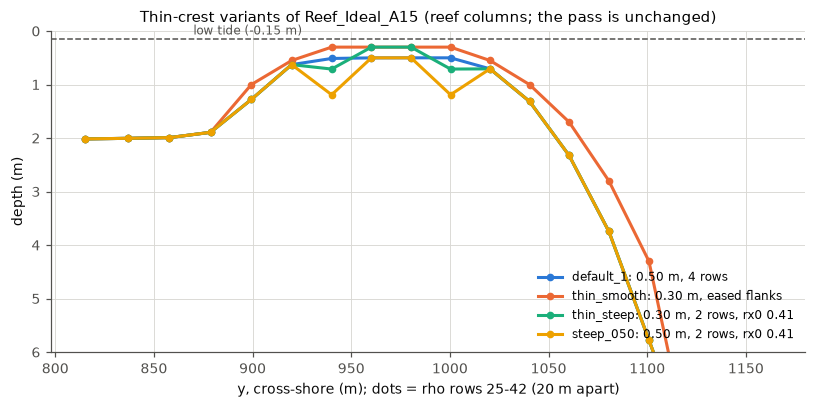
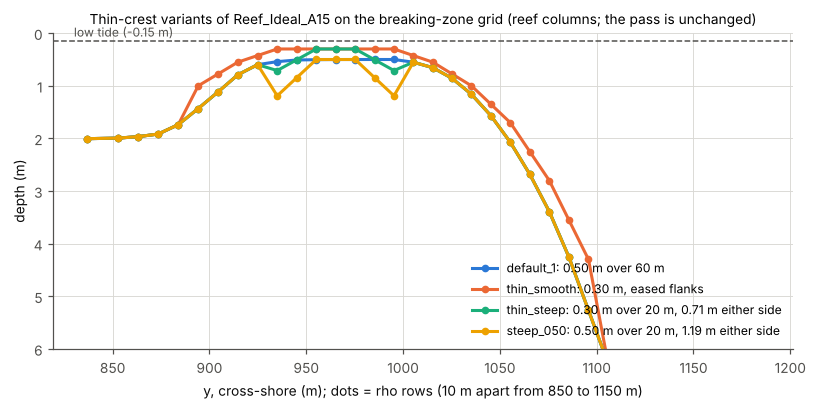
make_thin_crest.py: find the crest by depth, variants as profiles in metres
The tool assigned depths to the row numbers of the 20 m grid and chose
the reef columns on row 32, which on the breaking-zone grid is 1.1 m of
back reef. Each variant is now a depth profile against the distance from
the crest centre in metres; the reef columns are those shallower than
0.6 m, the centre is midway between the flanks' crossings of 1 m, each
profile point goes to the nearest row and the rows between are
interpolated. On the 20 m case (git history before 2026-11-03) the three
grids are bit-identical to the old tool's; on the breaking-zone grid the
same profiles are sampled every 10 m (rx0 0.26 and 0.37 per cell instead
of 0.41 for the steep variants). Doc page and the profile figure updated.

Claude-Session: https://claude.ai/code/session_011fPENoenHnmEj2RBrpTmzg

diff --git a/tools/reef/make_thin_crest.py b/tools/reef/make_thin_crest.py
@@ -3,33 +3,98 @@
     python -I make_thin_crest.py CASE_SRC CASE_DST
 
 Copies CASE_SRC to CASE_DST and adds, next to the default grid (crest 0.50 m,
-rows 31-34, flank rx0 0.34):
-  thin_smooth   crest rows 31-34 at 0.30 m, flanks (rows 29-39) eased so the
-                slope factor rx0 stays <= 0.31, as in the default grid
-  thin_steep    crest rows 32-33 at 0.30 m, rows 31 and 34 at 0.71 m (rx0 0.41:
-                a narrow 2-row crest, like a realistic reef grid that failed)
-  steep_050     crest rows 32-33 at 0.50 m, rows 31 and 34 at 1.19 m (rx0 0.41,
-                the default depth): steepness alone
-Only the reef columns (default h < 0.6 m at row 32) change; the pass is untouched.
+flat over 60 m: the 20 m grid's rows 31-34, flank rx0 0.34):
+  thin_smooth   crest at 0.30 m over the same 60 m, flanks eased over 140 m
+                either side so the slope factor rx0 stays about 0.3
+  thin_steep    0.30 m crest 20 m wide, 0.71 m 20 m either side of it (on the
+                20 m grid rx0 0.41: a narrow two-row crest, like a realistic
+                reef grid that failed)
+  steep_050     0.50 m crest 20 m wide, 1.19 m either side (rx0 0.41 on the
+                20 m grid, the default depth): steepness alone
+
+Each variant is a depth profile against the cross-shore distance from the
+crest centre, in metres (PROFILES below: the 20 m grid's rows 29-39 at their
+offsets from the centre of its crest). The crest is found by depth, not by
+row number: the reef columns are those whose shallowest wet point is less
+than 0.6 m deep (the pass is deeper and stays untouched); the crest centre is
+the midpoint between the two places where the median depth over the reef
+columns crosses 1 m, landward and seaward of the shallowest row. Each point
+of the profile goes to the row nearest its offset, and rows between two
+profile points take the linear interpolation in y; rows beyond the ends keep
+their depth. On the 20 m grid (203 x 111, before 2026-11-03) every profile
+point has its own row and the grids are those of the 2026-11-02 tests, bit
+for bit; on the breaking-zone grid (10 m rows from 850 to 1150 m from the
+shore) the rows in between are interpolated. rx0 is a per-cell number, so
+the "steep" variants are less steep per cell on 10 m rows (rx0 0.26 and 0.37
+instead of 0.41): the profile is the same, the numerical difficulty is not.
 """
-import shutil, sys
+import shutil
+import sys
 from pathlib import Path
+
 import numpy as np
 from netCDF4 import Dataset
 
-src, dst = Path(sys.argv[1]), Path(sys.argv[2])
-if dst.exists():
-    shutil.rmtree(dst)
-shutil.copytree(src, dst)
+# cross-shore offset from the crest centre (m) -> depth (m); the 20 m grid's rows
+# 29-39 sit at offsets -70, -50, ..., 130 (row 32.5 = the centre of rows 31-34)
+PROFILES = {
+    "thin_smooth": ([-70, -50, -30, -10, 10, 30, 50, 70, 90, 110, 130],
+                    [1.0, 0.55, 0.30, 0.30, 0.30, 0.30, 0.55, 1.0, 1.7, 2.8, 4.3]),
+    "thin_steep": ([-30, -10, 10, 30], [0.71, 0.30, 0.30, 0.71]),
+    "steep_050": ([-30, -10, 10, 30], [1.19, 0.50, 0.50, 1.19]),
+}
+REEF_DEPTH = 0.6    # a column is reef (not pass) if its shallowest wet point is above this
+FLANK_DEPTH = 1.0   # the crest centre is midway between the flanks' crossings of this depth
 
-def variant(name, rowdepth):
+
+def find_crest(h, mask, y):
+    """Reef columns (bool over i), the shallowest row and the crest centre's y (m)."""
+    hw = np.where(mask == 1, h, np.inf)
+    reef = hw.min(axis=0) < REEF_DEPTH
+    if not reef.any():
+        sys.exit(f"no reef columns: no wet point shallower than {REEF_DEPTH} m")
+    med = np.median(hw[:, reef], axis=1)
+    jmin = int(np.argmin(med))
+
+    def crossing(step):
+        j = jmin
+        while 0 <= j + step < len(med) and med[j + step] < FLANK_DEPTH:
+            j += step
+        k = j + step
+        f = (FLANK_DEPTH - med[j]) / (med[k] - med[j])
+        return y[j] + f * (y[k] - y[j])
+
+    yc = 0.5 * (crossing(-1) + crossing(+1))
+    return reef, jmin, yc
+
+
+def main(src, dst):
+    if dst.exists():
+        shutil.rmtree(dst)
+    shutil.copytree(src, dst)
+    with Dataset(dst / "roms_grid_default_1.nc") as g:
+        h0 = np.ma.filled(g["h"][:], 0.0)
+        mask = np.ma.filled(g["mask_rho"][:], 0)
+        y = np.ma.filled(g["y_rho"][:, 0], 0.0)
+    reef, jmin, yc = find_crest(h0, mask, y)
+    cols = np.flatnonzero(reef)
+    i0 = cols[len(cols) // 4]
+    print(f"reef columns: {reef.sum()} of {len(reef)}; shallowest row {jmin} (y {y[jmin]:.0f} m, "
+          f"{h0[jmin, i0]:.2f} m at i={i0}); crest centre y {yc:.0f} m")
+    for name, (off, dep) in PROFILES.items():
+        variant(dst, name, h0, reef, y - yc, np.array(off, float), np.array(dep, float), i0)
+
+
+def variant(dst, name, h0, reef, dy, off, dep, i0):
+    h = h0.copy()
+    rows = np.array([int(np.argmin(np.abs(dy - o))) for o in off])
+    if len(set(rows)) < len(rows):
+        sys.exit(f"{name}: two profile points fall on the same row; the grid is coarser than the profile")
+    for j in range(rows.min(), rows.max() + 1):
+        h[j, reef] = np.interp(dy[j], dy[rows], dep)
     gf = dst / f"roms_grid_{name}.nc"
     shutil.copy(dst / "roms_grid_default_1.nc", gf)
     with Dataset(gf, "a") as g:
-        h = g["h"][:]
-        reef = h[32] < 0.6
-        for j, d in rowdepth.items():
-            h[j, reef] = d
         g["h"][:] = h
         if "hraw" in g.variables:
             g["hraw"][0] = h
@@ -38,10 +103,12 @@ def variant(name, rowdepth):
     b[w] = h[w]
     np.savetxt(dst / f"swan_bathy_{name}.bot", b, fmt="%15.8f")
     rx = np.abs(h[1:] - h[:-1]) / (h[1:] + h[:-1])
-    print(f"{name}: rows 28-40 at i=50 {np.round(h[28:41, 50], 2)}; rx0 max {rx.max():.3f} "
-          f"(rows 28-40: {rx[28:40].max():.3f})")
+    j0, j1 = rows.min() - 1, rows.max() + 2
+    print(f"{name}: rows {j0}-{j1 - 1} at i={i0} {np.round(h[j0:j1, i0], 2)}; "
+          f"rx0 max {rx.max():.3f} (those rows: {rx[j0:j1 - 1].max():.3f})")
 
-variant("thin_smooth", {29: 1.0, 30: 0.55, 31: 0.30, 32: 0.30, 33: 0.30, 34: 0.30,
-                        35: 0.55, 36: 1.0, 37: 1.7, 38: 2.8, 39: 4.3})
-variant("thin_steep", {31: 0.71, 32: 0.30, 33: 0.30, 34: 0.71})
-variant("steep_050", {31: 1.19, 32: 0.50, 33: 0.50, 34: 1.19})
+
+if __name__ == "__main__":
+    if len(sys.argv) != 3:
+        sys.exit("usage: python -I make_thin_crest.py CASE_SRC CASE_DST")
+    main(Path(sys.argv[1]), Path(sys.argv[2]))

diff --git a/figures/make_figures.py b/figures/make_figures.py
@@ -215,21 +215,23 @@ def fig_thin_crest(tmp):
     dst = tmp / "A15_thin"
     run(ROOT / "tools/reef/make_thin_crest.py", A15, dst)
     fig, ax = plt.subplots(figsize=(7.5, 3.8))
-    names = [("default_1", "default_1: 0.50 m, 4 rows", C1),
+    names = [("default_1", "default_1: 0.50 m over 60 m", C1),
              ("thin_smooth", "thin_smooth: 0.30 m, eased flanks", C2),
-             ("thin_steep", "thin_steep: 0.30 m, 2 rows, rx0 0.41", C3),
-             ("steep_050", "steep_050: 0.50 m, 2 rows, rx0 0.41", C4)]
-    rows = slice(25, 43)
+             ("thin_steep", "thin_steep: 0.30 m over 20 m, 0.71 m either side", C3),
+             ("steep_050", "steep_050: 0.50 m over 20 m, 1.19 m either side", C4)]
     for n, lab, col in names:
         g = grid(dst / f"roms_grid_{n}.nc")
-        ax.plot(g["y_rho"][rows, 50], g["h"][rows, 50], "-o", color=col, ms=4, label=lab)
+        y, h = g["y_rho"][:, 50], g["h"][:, 50]
+        sel = (y > 820) & (y < 1200)
+        ax.plot(y[sel], h[sel], "-o", color=col, ms=4, label=lab)
     ax.axhline(0.15, color=INK2, lw=1, ls="--")
-    ax.text(870, 0.12, "low tide (-0.15 m)", color=INK2, fontsize=8, va="bottom")
+    ax.text(830, 0.12, "low tide (-0.15 m)", color=INK2, fontsize=8, va="bottom")
     ax.invert_yaxis()
     ax.set_ylim(6, 0)
-    ax.set_xlabel("y, cross-shore (m); dots = rho rows 25-42 (20 m apart)")
+    ax.set_xlabel("y, cross-shore (m); dots = rho rows (10 m apart from 850 to 1150 m)")
     ax.set_ylabel("depth (m)")
-    ax.set_title("Thin-crest variants of Reef_Ideal_A15 (reef columns; the pass is unchanged)")
+    ax.set_title("Thin-crest variants of Reef_Ideal_A15 on the breaking-zone grid (reef columns; the pass is unchanged)",
+                 fontsize=9)
     ax.legend(loc="lower right", fontsize=8)
     fig.tight_layout()
     save(fig, "a15_thin_crest_profiles.png")

diff --git a/docs/Reef_Ideal_A15_thin_crest.md b/docs/Reef_Ideal_A15_thin_crest.md
@@ -11,27 +11,33 @@ python3 -I tools/reef/make_thin_crest.py cases/Reef_Ideal_A15 cases/Reef_Ideal_A
 
 This writes `roms_grid_<name>.nc` and `swan_bathy_<name>.bot` for each variant;
 point `GRDNAME` in `ocean.in` and the bottom `READINP` in `swan.in` at the pair
-you want. Only the reef columns (default depth < 0.6 m on row 32) change; the
-pass and everything else are untouched.
+you want. Only the reef columns change (those whose shallowest wet point is
+less than 0.6 m deep); the pass and everything else are untouched.
 
-**The variants and the row numbers below are on the 20 m grid** (203 x 111,
-the A15 grid until 2026-11-03). The script finds the reef columns on row 32,
-which on today's breaking-zone grid is 1.1 m deep back reef, so run it on the
-20 m case from the git history (before 2026-11-03), or adapt the rows (the
-crest is on rows 37-41 of the breaking-zone grid). The tests were run with
-10 levels and LF-AM3; their conclusions (below) do not depend on either.
+The variants are depth profiles against the distance from the crest centre,
+in metres. The script finds the crest by depth (the centre is midway between
+the two places where the reef's median profile crosses 1 m), puts each
+profile point on the row nearest its offset and interpolates the rows in
+between, so it works on any A15 grid. On the 20 m grid (203 x 111, the A15
+grid until 2026-11-03) every profile point has its own row and the grids are
+those of the tests below, bit for bit; on today's breaking-zone grid (10 m
+rows across the crest) the same profiles are sampled every 10 m. The slope
+factor rx0 is a per-cell number, so the "steep" variants are less steep per
+cell on 10 m rows (0.26 and 0.37 instead of 0.41): the profile is the same,
+the numerical difficulty is not. The tests below were run on the 20 m grid
+with 10 levels and LF-AM3; their conclusions do not depend on either.
 
 ![Thin-crest profiles](../figures/a15_thin_crest_profiles.png)
 
-| Grid | Crest | Flanks (slope factor rx0) | Isolates |
+| Grid | Crest | Flanks (slope factor rx0 on the 20 m grid) | Isolates |
 |---|---|---|---|
-| `default_1` | 0.50 m, rows 31-34 | 0.34 | A15 as used elsewhere |
-| `thin_smooth` | 0.30 m, rows 31-34 | rows 29-39 eased, <= 0.32 | depth alone |
-| `thin_steep` | 0.30 m, rows 32-33; 0.71 m on rows 31 and 34 | 0.41 | a narrow two-row crest |
-| `steep_050` | 0.50 m, rows 32-33; 1.19 m on rows 31 and 34 | 0.41 | steepness alone |
+| `default_1` | 0.50 m over 60 m (the 20 m grid's rows 31-34) | 0.34 | A15 as used elsewhere |
+| `thin_smooth` | 0.30 m over the same 60 m | eased over 140 m either side, <= 0.32 | depth alone |
+| `thin_steep` | 0.30 m over 20 m (rows 32-33); 0.71 m 20 m either side (rows 31 and 34) | 0.41 | a narrow two-row crest |
+| `steep_050` | 0.50 m over 20 m; 1.19 m 20 m either side | 0.41 | steepness alone |
 
 On the 0.30 m crest the bottom layer is 3 cm thick at rest and about 1.5 cm
-near low tide (0.15 m of water over the crest).
+near low tide (0.15 m of water over the crest), with 10 levels.
 
 ## The bottom-stress schemes compared
 
